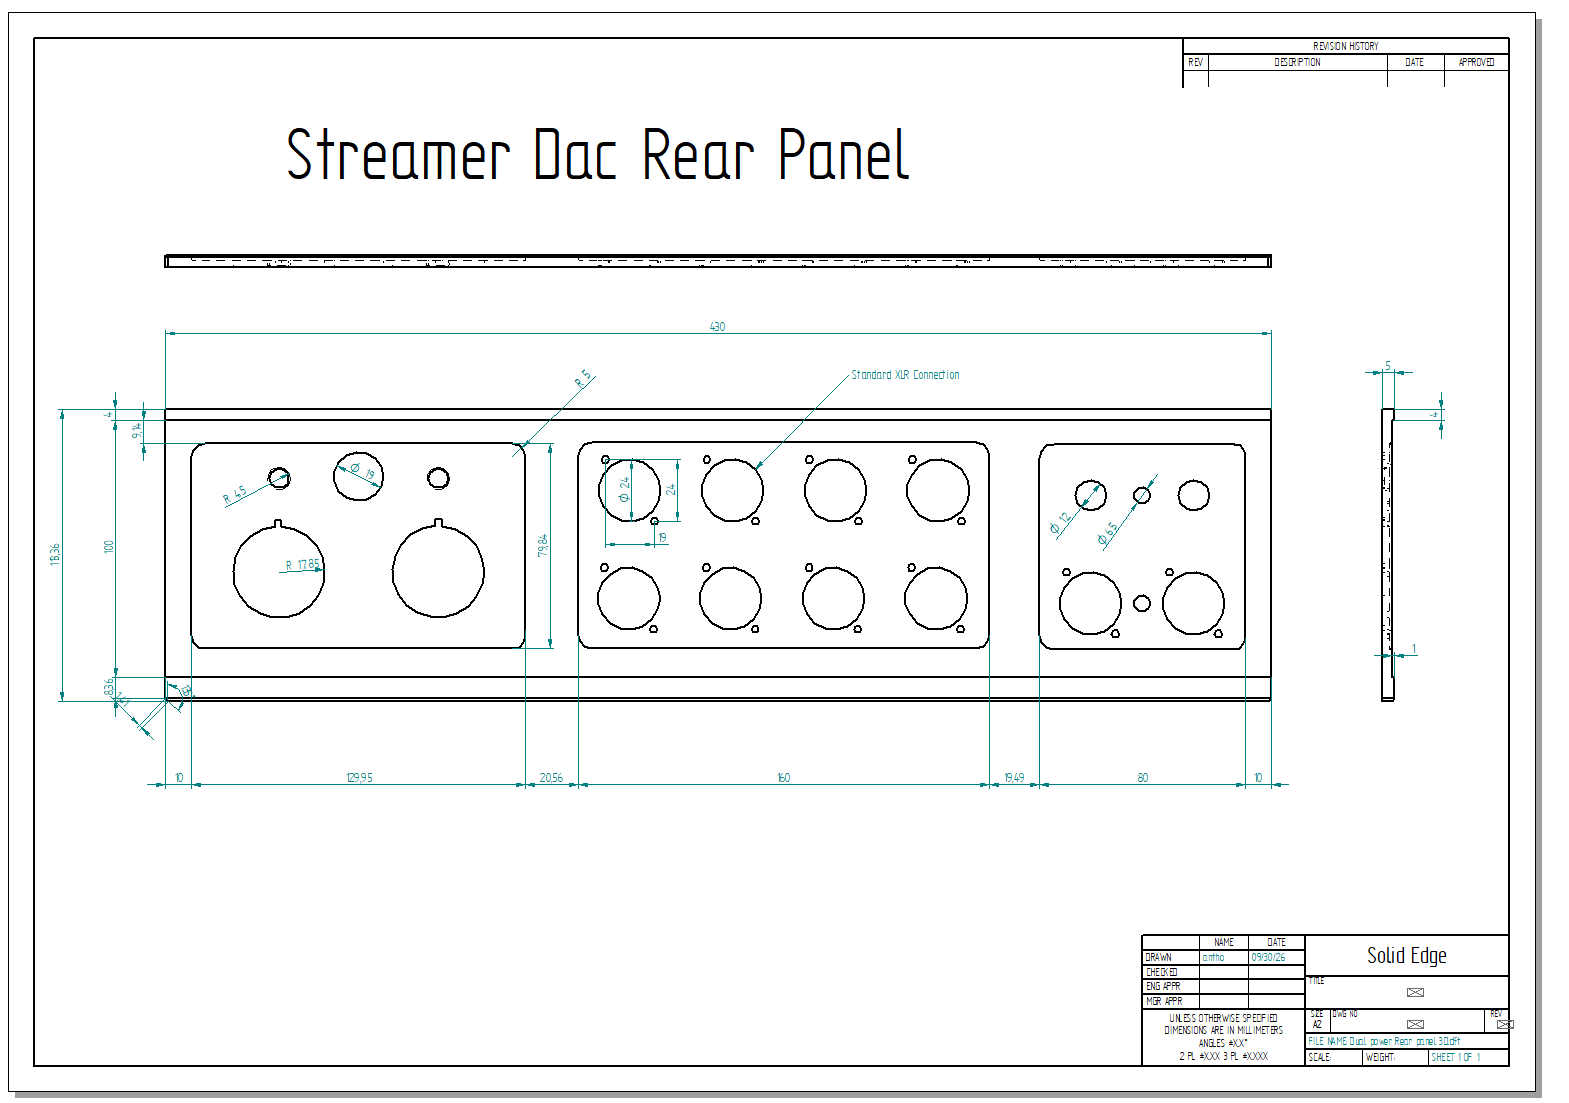
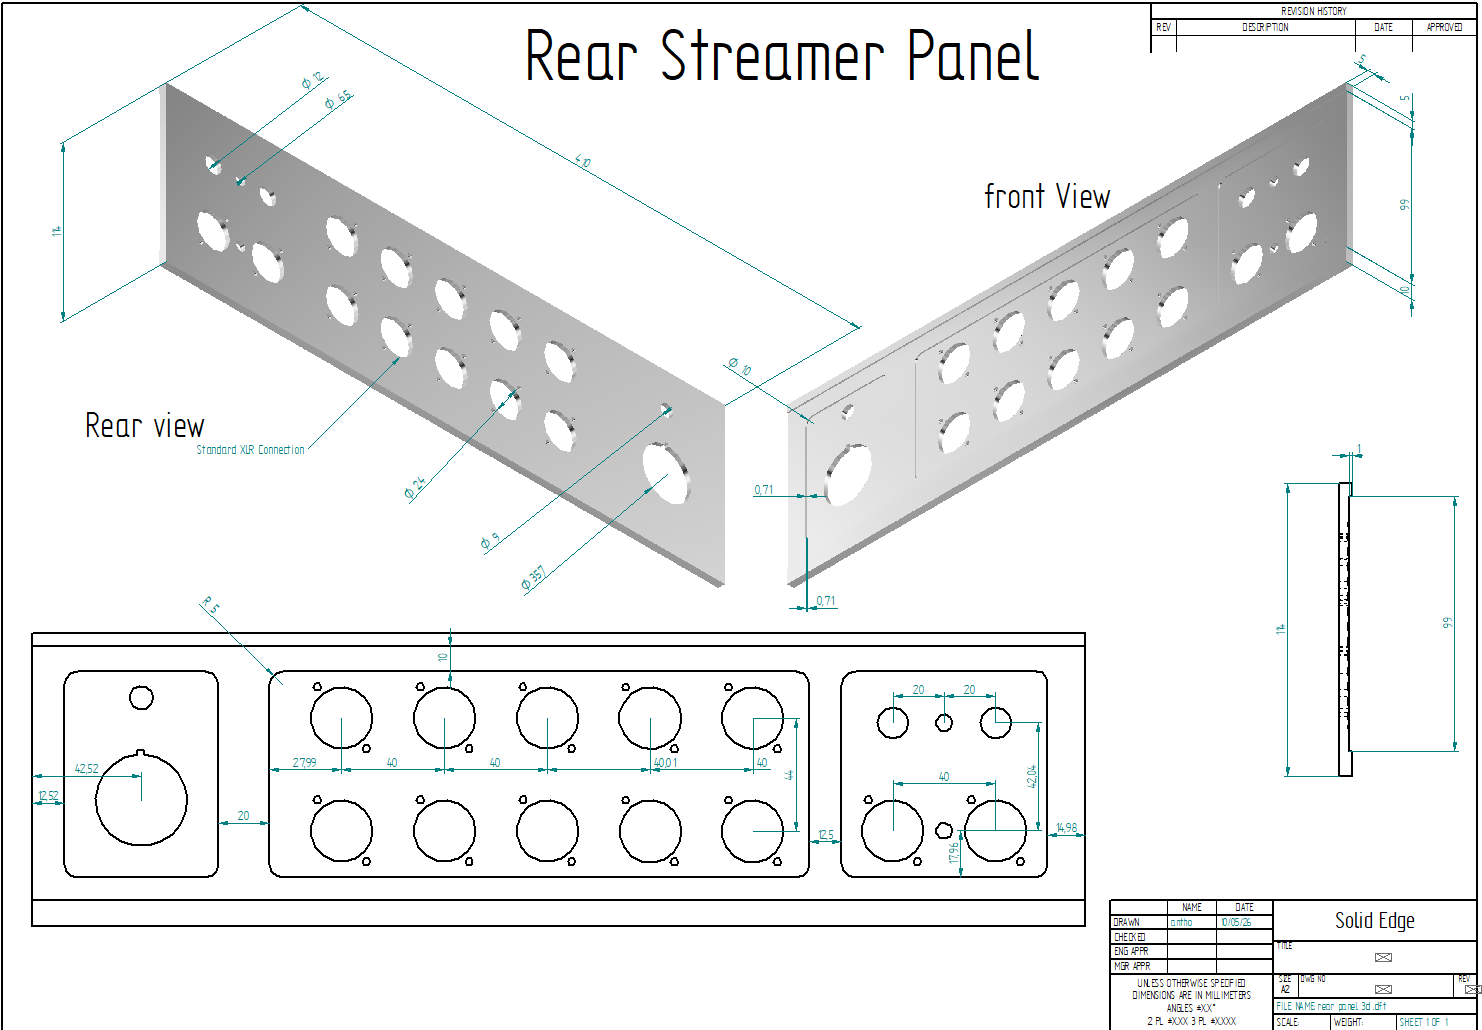
Fixing service guide attachments and references

diff --git a/docs/userDocumentation/ServiceGuide.md b/docs/userDocumentation/ServiceGuide.md
@@ -254,16 +254,18 @@ RPI Dac Power
 
 <img src="../user-manual-media/media/service-guide/raspberry-pi-dac-power-board.png" style="width:5.25434in;height:4.58546in" />
 
+Capacitor Bank
+
+<img src="../user-manual-media/media/service-guide/capacitor-bank-photo.png" style="width:6.26806in;height:4.40625in" />
+
+<img src="../user-manual-media/media/service-guide/capacitor-bank-schematic.png" style="width:6.26806in;height:4.40625in" />
+
 Streamer Dac Case Build
 
 <img src="../user-manual-media/media/service-guide/streamer-dac-rear-panel-drawing.png" style="width:6.26806in;height:4.40625in" />
 
 
-Capictor Bank
 
-<img src="../user-manual-media/media/service-guide/capacitor-bank-photo.png" style="width:6.26806in;height:4.40625in" />
-
-<img src="../user-manual-media/media/service-guide/capacitor-bank-schematic.png" style="width:6.26806in;height:4.40625in" />
 
 
 
@@ -281,6 +283,15 @@ Top Panel for streamer and Dac
 
 <img src="../user-manual-media/media/service-guide/streamer-dac-top-panel-drawing.png" style="width:6.26806in;height:4.43125in" />
 
+
+Power Supply
+
+
+Front Panel
+<img src="../user-manual-media/media/service-guide/Power-supply-panel-front.png" style="width:6.26806in;height:4.43125in" />
+
+Rear Panel
+<img src="../user-manual-media/media/service-guide/Power-supply-rear.png" style="width:6.26806in;height:4.43125in" />
 Inner Case
 
 <img src="../user-manual-media/media/service-guide/streamer-dac-inner-case-cad.png" style="width:6.26806in;height:4.14375in" />
